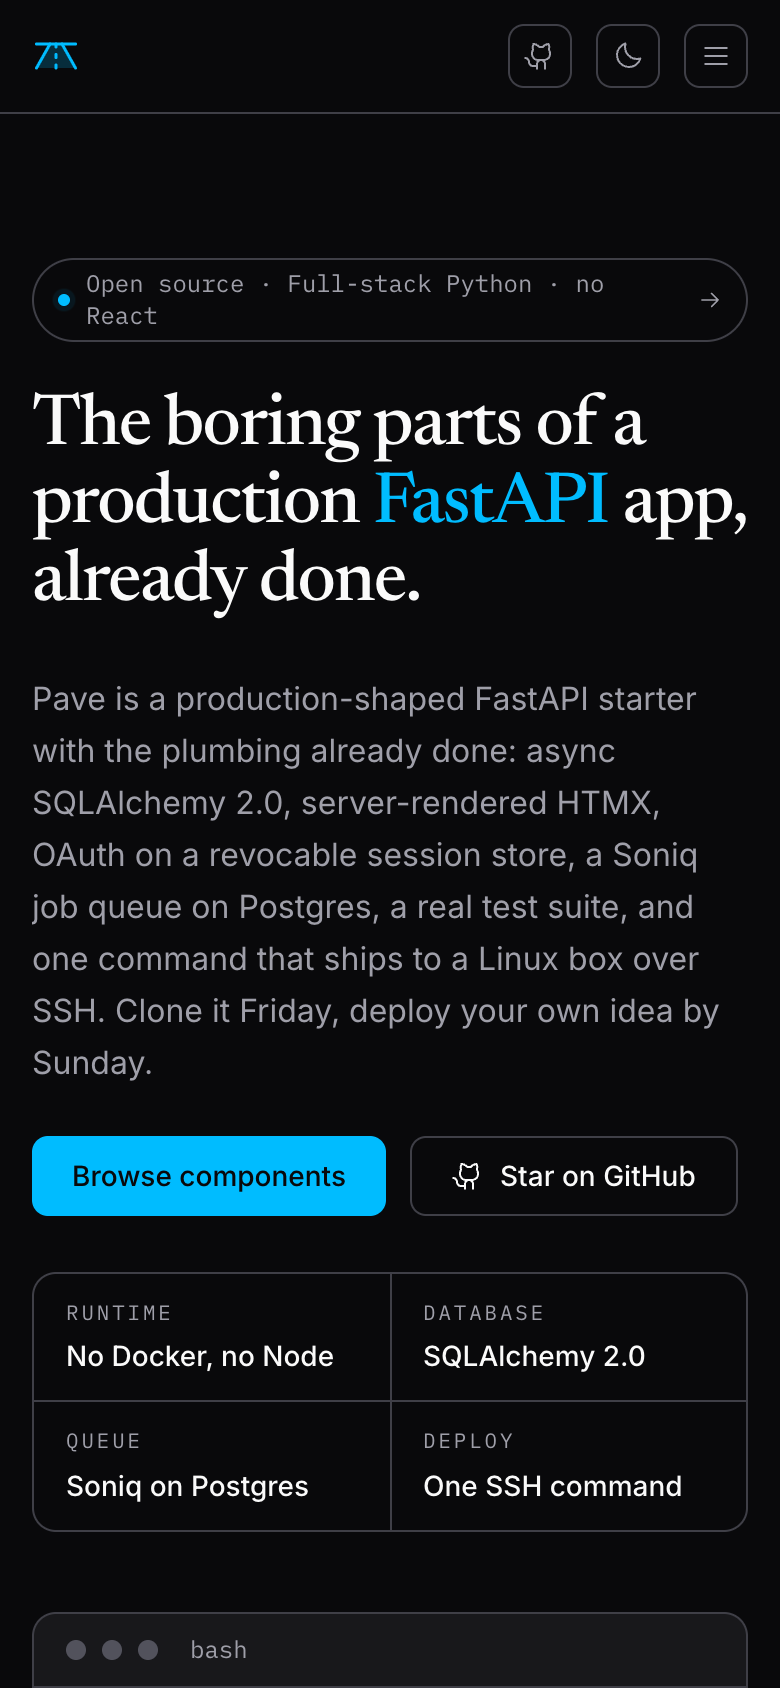
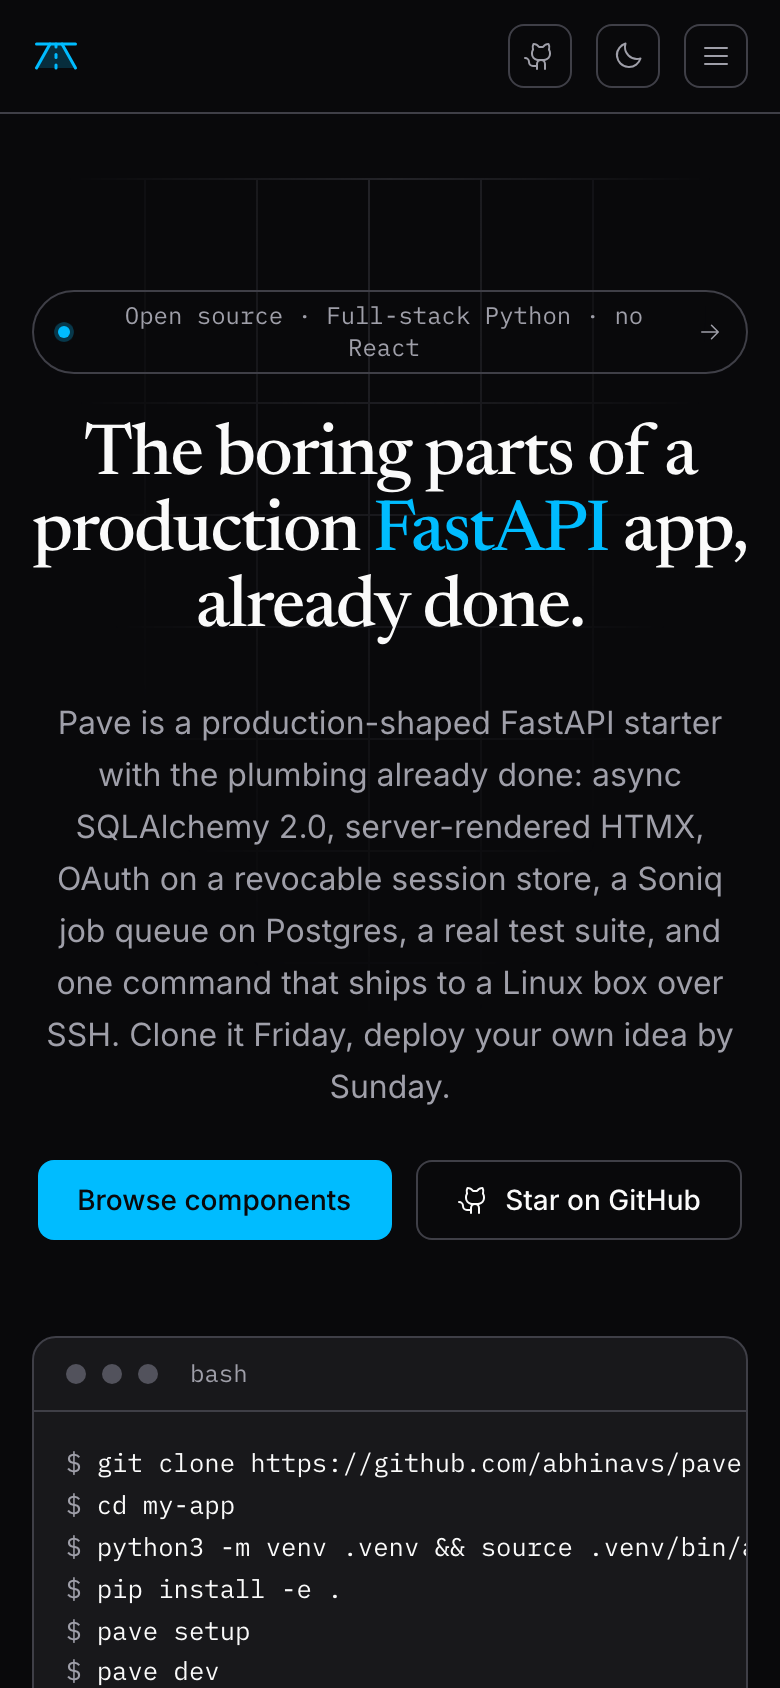
Recompose the landing hero into a centered zed.dev-style statement with a product canvas

diff --git a/templates/index.html b/templates/index.html
@@ -15,108 +15,101 @@
      ---------------------------------------------------------------------- #}
 
   {# ============================ HERO ============================ #}
-  <section class="relative overflow-hidden py-10 sm:py-16">
-    {# Soft accent glow behind the headline - the one decorative flourish on
-       the page. Clipped by the section so it never spills a scrollbar. #}
+  {# Statement-first hero in the zed.dev idiom: the headline owns the centre,
+     a single product canvas (clone to deploy) drops in full width beneath it
+     with the accent glow behind the canvas instead of the type, and a
+     hairline grid gives the surface a flat, engineered floor. Still on
+     tokens, still serif display, still violet - just recomposed. #}
+  <section class="relative overflow-hidden py-14 sm:py-20">
+    {# Engineered grid floor. Hairlines drawn from the border token, masked to
+       a soft radial so it fades out before it reaches the page edges and never
+       reads as a hard box. Decorative only. #}
     <div
-      class="pointer-events-none absolute -top-32 left-1/2 -z-10 h-72 w-[44rem] max-w-full -translate-x-1/2 rounded-full bg-primary/15 blur-[120px]"
+      class="pointer-events-none absolute inset-0 -z-10 opacity-[0.5] [mask-image:radial-gradient(ellipse_60%_55%_at_50%_0%,black,transparent_75%)]"
+      style="background-image: linear-gradient(to right, var(--color-border) 1px, transparent 1px), linear-gradient(to bottom, var(--color-border) 1px, transparent 1px); background-size: 56px 56px;"
       aria-hidden="true"
     ></div>
 
-    <div class="grid gap-10 lg:grid-cols-[1.05fr_0.95fr] lg:items-center">
-      {# ---- Left: the pitch ---- #}
-      <div class="flex flex-col items-start gap-6 text-left">
-        <a
-          href="https://github.com/abhinavs/pave"
-          target="_blank"
-          rel="noopener"
-          class="inline-flex items-center gap-2 rounded-full border border-border bg-muted/40 px-3 py-1 font-mono text-xs text-muted-foreground transition-colors hover:border-border-strong hover:text-foreground"
-        >
-          <span class="relative flex h-1.5 w-1.5">
-            <span class="absolute inline-flex h-full w-full animate-ping rounded-full bg-primary opacity-75"></span>
-            <span class="relative inline-flex h-1.5 w-1.5 rounded-full bg-primary"></span>
-          </span>
-          Open source &middot; Full-stack Python &middot; no React
-          {% with name="arrow-right", class="h-3 w-3" %}{% include "_components/icon.html" %}{% endwith %}
-        </a>
+    {# ---- The pitch, centred ---- #}
+    <div class="mx-auto flex max-w-3xl flex-col items-center gap-6 text-center">
+      <a
+        href="https://github.com/abhinavs/pave"
+        target="_blank"
+        rel="noopener"
+        class="inline-flex items-center gap-2 rounded-full border border-border bg-muted/40 px-3 py-1 font-mono text-xs text-muted-foreground transition-colors hover:border-border-strong hover:text-foreground"
+      >
+        <span class="relative flex h-1.5 w-1.5">
+          <span class="absolute inline-flex h-full w-full animate-ping rounded-full bg-primary opacity-75"></span>
+          <span class="relative inline-flex h-1.5 w-1.5 rounded-full bg-primary"></span>
+        </span>
+        Open source &middot; Full-stack Python &middot; no React
+        {% with name="arrow-right", class="h-3 w-3" %}{% include "_components/icon.html" %}{% endwith %}
+      </a>
 
-        <h1 class="max-w-2xl font-serif text-4xl font-medium leading-[1.08] tracking-tight text-foreground sm:text-5xl">
-          {% if user %}
-            Welcome back, {{ user.name }}.
-          {% else %}
-            The boring parts of a production
-            <span class="text-primary">FastAPI</span> app, already done.
-          {% endif %}
-        </h1>
+      <h1 class="font-serif text-4xl font-medium leading-[1.05] tracking-tight text-foreground sm:text-6xl">
+        {% if user %}
+          Welcome back, {{ user.name }}.
+        {% else %}
+          The boring parts of a production
+          <span class="text-primary">FastAPI</span> app, already done.
+        {% endif %}
+      </h1>
 
-        <p class="max-w-xl text-base leading-relaxed text-muted-foreground sm:text-lg">
-          {% if user %}
-            The live demo, the Soniq worker, the auth flow, the design
-            system - all wired and waiting. Open the demo or browse the
-            component gallery, then start cutting toward the part that is
-            actually your idea.
-          {% else %}
-            Pave is a production-shaped FastAPI starter with the plumbing
-            already done: async SQLAlchemy 2.0, server-rendered HTMX, OAuth
-            on a revocable session store, a Soniq job queue on Postgres, a
-            real test suite, and one command that ships to a Linux box over
-            SSH. Clone it Friday, deploy your own idea by Sunday.
-          {% endif %}
-        </p>
+      <p class="max-w-2xl text-base leading-relaxed text-muted-foreground sm:text-lg">
+        {% if user %}
+          The live demo, the Soniq worker, the auth flow, the design
+          system - all wired and waiting. Open the demo or browse the
+          component gallery, then start cutting toward the part that is
+          actually your idea.
+        {% else %}
+          Pave is a production-shaped FastAPI starter with the plumbing
+          already done: async SQLAlchemy 2.0, server-rendered HTMX, OAuth
+          on a revocable session store, a Soniq job queue on Postgres, a
+          real test suite, and one command that ships to a Linux box over
+          SSH. Clone it Friday, deploy your own idea by Sunday.
+        {% endif %}
+      </p>
 
-        <div class="flex flex-wrap items-center gap-3">
-          {% if user %}
-            <a
-              href="/webhooks/"
-              class="inline-flex h-10 items-center rounded-md bg-primary px-5 text-sm font-medium text-primary-foreground transition-colors hover:bg-primary/90"
-              >Open the live demo</a
-            >
-            <a
-              href="/components"
-              class="inline-flex h-10 items-center rounded-md border border-border px-5 text-sm font-medium transition-colors hover:bg-accent"
-              >Browse components</a
-            >
-          {% else %}
-            <a
-              href="/components"
-              class="inline-flex h-10 items-center rounded-md bg-primary px-5 text-sm font-medium text-primary-foreground transition-colors hover:bg-primary/90"
-              >Browse components</a
-            >
-            <a
-              href="https://github.com/abhinavs/pave"
-              target="_blank"
-              rel="noopener"
-              class="inline-flex h-10 items-center gap-2 rounded-md border border-border px-5 text-sm font-medium transition-colors hover:bg-accent"
-            >
-              {% with name="github", class="h-4 w-4" %}{% include "_components/icon.html" %}{% endwith %}
-              Star on GitHub
-            </a>
-          {% endif %}
-        </div>
-
-        {# Spec strip. Four claims the rest of the page backs up, laid out as
-           an even grid of stat cells - label stacked over value - so the
-           columns line up instead of drifting on a wrapping flex row. #}
-        <dl class="mt-1 grid w-full max-w-xl grid-cols-2 gap-px overflow-hidden rounded-lg border border-border bg-border sm:grid-cols-4">
-          {% for fact in [
-            {"k": "Runtime", "v": "No Docker, no Node"},
-            {"k": "Database", "v": "SQLAlchemy 2.0"},
-            {"k": "Queue", "v": "Soniq on Postgres"},
-            {"k": "Deploy", "v": "One SSH command"},
-          ] %}
-            <div class="bg-background px-4 py-3">
-              <dt class="font-mono text-[0.65rem] uppercase tracking-[0.14em] text-muted-foreground">
-                {{ fact.k }}
-              </dt>
-              <dd class="mt-1 text-sm font-medium text-foreground">{{ fact.v }}</dd>
-            </div>
-          {% endfor %}
-        </dl>
+      <div class="flex flex-wrap items-center justify-center gap-3">
+        {% if user %}
+          <a
+            href="/webhooks/"
+            class="inline-flex h-10 items-center rounded-md bg-primary px-5 text-sm font-medium text-primary-foreground transition-colors hover:bg-primary/90"
+            >Open the live demo</a
+          >
+          <a
+            href="/components"
+            class="inline-flex h-10 items-center rounded-md border border-border px-5 text-sm font-medium transition-colors hover:bg-accent"
+            >Browse components</a
+          >
+        {% else %}
+          <a
+            href="/components"
+            class="inline-flex h-10 items-center rounded-md bg-primary px-5 text-sm font-medium text-primary-foreground transition-colors hover:bg-primary/90"
+            >Browse components</a
+          >
+          <a
+            href="https://github.com/abhinavs/pave"
+            target="_blank"
+            rel="noopener"
+            class="inline-flex h-10 items-center gap-2 rounded-md border border-border px-5 text-sm font-medium transition-colors hover:bg-accent"
+          >
+            {% with name="github", class="h-4 w-4" %}{% include "_components/icon.html" %}{% endwith %}
+            Star on GitHub
+          </a>
+        {% endif %}
       </div>
+    </div>
 
-      {# ---- Right: clone to deploy, in one card. The whole loop - from an
-         empty directory to a live box - in six lines. Prompts are muted,
-         commands foreground, the result line picks up the primary accent. ---- #}
+    {# ---- Product canvas: clone to deploy, in one card, centre stage. The
+       whole loop - from an empty directory to a live box - in six lines. The
+       accent glow lives behind this panel now, so the colour pools under the
+       product the way it does on zed.dev, not under the type. ---- #}
+    <div class="relative mx-auto mt-12 max-w-3xl sm:mt-14">
+      <div
+        class="pointer-events-none absolute -inset-x-8 -top-10 -z-10 h-48 rounded-full bg-primary/15 blur-[120px]"
+        aria-hidden="true"
+      ></div>
       <div class="overflow-hidden rounded-lg border border-border bg-card shadow-lg">
         <div class="flex items-center gap-2 border-b border-border bg-muted/40 px-4 py-2.5">
           <span class="h-2.5 w-2.5 rounded-full bg-border-strong"></span>
@@ -124,7 +117,7 @@
           <span class="h-2.5 w-2.5 rounded-full bg-border-strong"></span>
           <span class="ml-2 font-mono text-xs text-muted-foreground">bash</span>
         </div>
-        <pre class="overflow-x-auto p-4 font-mono text-[0.8rem] leading-relaxed"><code><span class="text-muted-foreground">$</span> <span class="text-foreground">git clone https://github.com/abhinavs/pave my-app</span>
+        <pre class="overflow-x-auto p-4 font-mono text-[0.8rem] leading-relaxed sm:p-5"><code><span class="text-muted-foreground">$</span> <span class="text-foreground">git clone https://github.com/abhinavs/pave my-app</span>
 <span class="text-muted-foreground">$</span> <span class="text-foreground">cd my-app</span>
 <span class="text-muted-foreground">$</span> <span class="text-foreground">python3 -m venv .venv && source .venv/bin/activate</span>
 <span class="text-muted-foreground">$</span> <span class="text-foreground">pip install -e .</span>
@@ -135,6 +128,24 @@
 <span class="text-muted-foreground">$</span> <span class="text-foreground">fab production deploy</span></code></pre>
       </div>
     </div>
+
+    {# Spec strip. Four claims the rest of the page backs up, centred under the
+       canvas as an even grid of stat cells so the columns line up. #}
+    <dl class="mx-auto mt-8 grid w-full max-w-3xl grid-cols-2 gap-px overflow-hidden rounded-lg border border-border bg-border sm:grid-cols-4">
+      {% for fact in [
+        {"k": "Runtime", "v": "No Docker, no Node"},
+        {"k": "Database", "v": "SQLAlchemy 2.0"},
+        {"k": "Queue", "v": "Soniq on Postgres"},
+        {"k": "Deploy", "v": "One SSH command"},
+      ] %}
+        <div class="bg-background px-4 py-3 text-center sm:text-left">
+          <dt class="font-mono text-[0.65rem] uppercase tracking-[0.14em] text-muted-foreground">
+            {{ fact.k }}
+          </dt>
+          <dd class="mt-1 text-sm font-medium text-foreground">{{ fact.v }}</dd>
+        </div>
+      {% endfor %}
+    </dl>
   </section>
 
   {# Onboarding checklist. Only rendered when a logged-in user still has a
